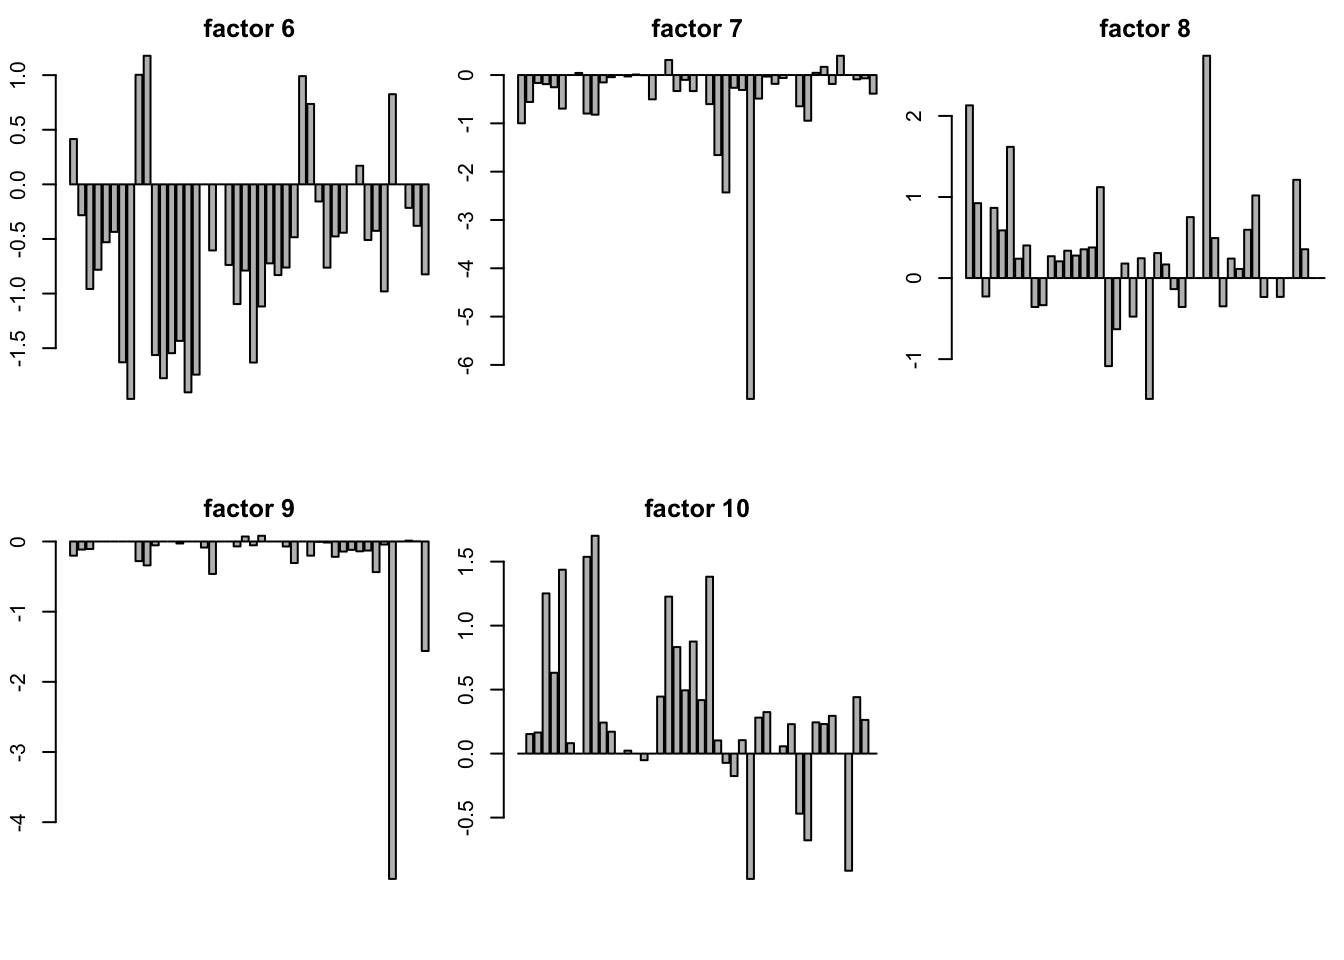
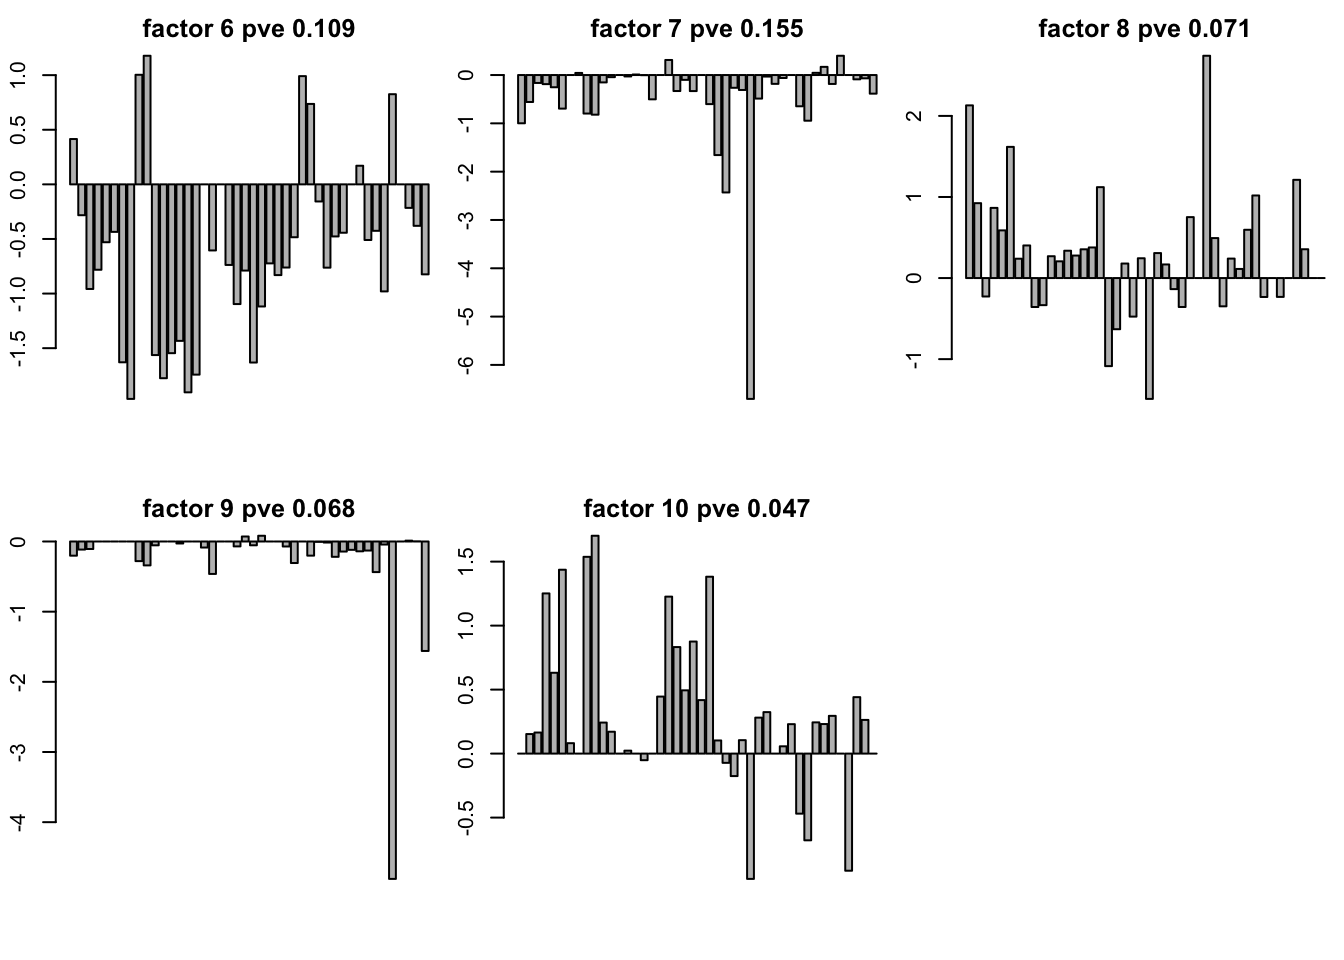
Build site.

diff --git a/docs/GTEXzscoreTemplate.html b/docs/GTEXzscoreTemplate.html
@@ -332,7 +332,7 @@ shared across the workflowr files. -->
 <p><strong>Last updated:</strong> 2017-10-05</p>
 <!-- Insert the code version (Git commit SHA1) if Git repository exists and R
  package git2r is installed -->
-<p><strong>Code version:</strong> 38b5faf</p>
+<p><strong>Code version:</strong> 33d00ce</p>
 <!-- Add your analysis here -->
 <div id="install-the-package" class="section level2">
 <h2>Install the package</h2>
@@ -597,12 +597,17 @@ for(k in 1:30){
 <h3>plot of SFA result with t(Y) K = 10</h3>
 <p>If you would like to use <code>t(Y)</code> you should use <code>-vn</code> in the <code>sfa</code> command line in order to get <span class="math inline">\((\hat{\sigma}_1^2,\cdots,\hat{\sigma}_j^2,\cdots)\)</span> is a <code>16069</code> vector</p>
 <p>you need add <code>-mg</code> to get the mean vector with length of 44</p>
-<pre class="r"><code>gt10 = readRDS(&#39;../data/GTExdata/SFAres/sfaTK_10m.rds&#39;)
+<pre class="r"><code>load(&quot;../data/GTExdata/gtexEQTL_zscore.rds&quot;)
+gt10 = readRDS(&#39;../data/GTExdata/SFAres/sfaTK_10m.rds&#39;)
+ssy = sum(zscore^2)
+pve = sapply(seq(1:10),function(x){sum((gt10$LF$L[,x] %*% t(gt10$LF$F[x,]))^2)})
+pve = pve/ssy
+
 mu = sapply(seq(1:44),function(x){gt10$mu[[x]]})
 par(mfrow = c(2,3),mar=c(5.1,4.1,4.1,2.1)-1.9)
 barplot(mu,main = &quot;mean vector&quot;)
 for(k in 1:10){
-  barplot(gt10$LF$L[,k],main = paste(&quot;factor&quot;,k))
+  barplot(gt10$LF$L[,k],main = paste(&quot;factor&quot;,k,&quot;pve&quot;,round(pve[k],3)))
 }</code></pre>
 <p><img src="figure/GTEXzscoreTemplate.Rmd/unnamed-chunk-4-1.png" width="672" style="display: block; margin: auto;" /><img src="figure/GTEXzscoreTemplate.Rmd/unnamed-chunk-4-2.png" width="672" style="display: block; margin: auto;" /></p>
 <div id="problem-in-k-20-and-k-30-in-this-case." class="section level4">
